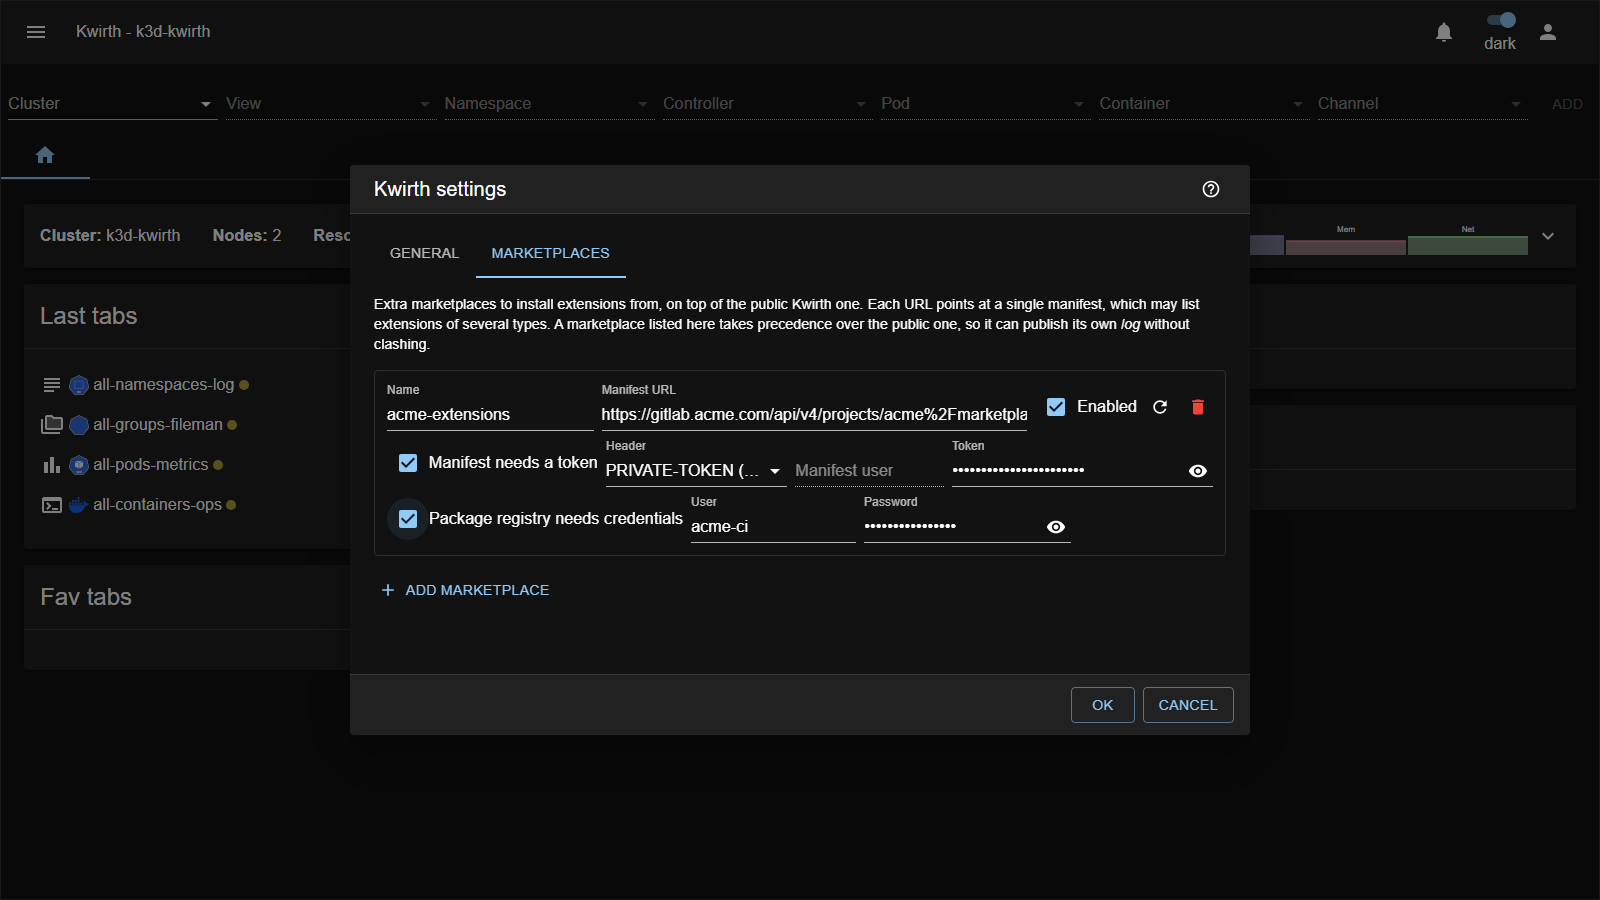
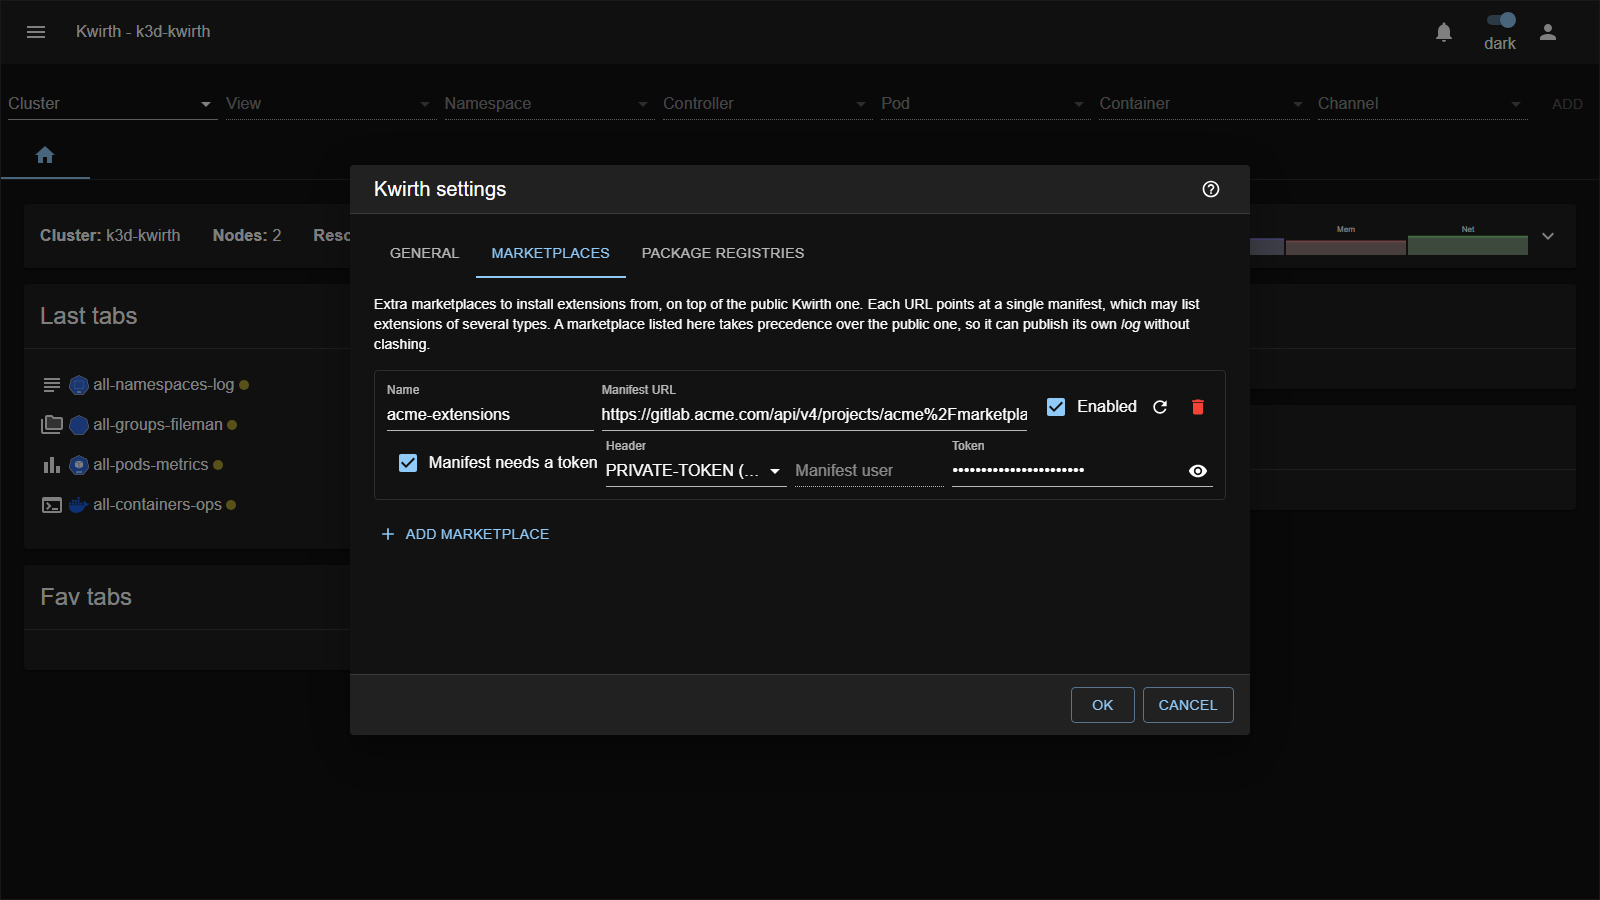
docs(admin): capturas y guia de los registros de paquetes
La captura del tab Marketplaces enseñaba el bloque de credenciales de paquete, que ya
no vive ahi, y la pestaña nueva no tenia ninguna. Se regeneran las dos y se referencia
la nueva en la guia.

La captura redacta AMBAS pestañas antes de fotografiar ninguna: el dialogo mantiene en
el DOM los campos de la pestaña oculta, asi que el Nexus real seguia ahi mientras se
fotografiaba la otra. La comprobacion de fuga mira todos los inputs y lo cazo — por eso
esta, y por eso ahora tambien busca el nombre del repo privado, no solo el host.

Y la config podia pedir capturas: el comentario decia que se lanzaban nombrando el
fichero, pero testIgnore se aplica igual en la linea de comandos, asi que no habia
NINGUNA forma de correrlas sin editar la config. Ahora CAPTURES=1 las habilita.

diff --git a/front/e2e/tests/capture-marketplaces.spec.ts b/front/e2e/tests/capture-marketplaces.spec.ts
@@ -25,7 +25,11 @@ const SAMPLE = {
     manifestUser: '',
     token: 'glpat-ExampleTokenValue',
     user: 'acme-ci',
-    password: 'example-password'
+    password: 'example-password',
+    // El registro de paquetes es OTRO servidor que el manifest: por eso la captura enseña otro host.
+    registryLabel: 'acme-nexus',
+    registryUrl: 'https://nexus.acme.com/repository/acme-private',
+    registryToken: 'example-registry-token'
 }
 
 /** Escribe en un input de React de forma que el componente registre el cambio. */
@@ -59,18 +63,34 @@ test('capture marketplaces (dark, redactado)', async ({ page }) => {
     const rows = await dlg(page).getByLabel('Manifest URL', { exact: true }).count()
     test.skip(rows === 0, 'no hay ningún marketplace registrado que capturar')
 
-    // Para que la imagen enseñe el caso completo — manifest con token Y registro con credenciales —
-    // se marcan las dos casillas. Es una ilustración, no la configuración real: nada de esto se guarda.
-    const registryCreds = dlg(page).getByLabel('Package registry needs credentials', { exact: true }).first()
-    if (!await registryCreds.isChecked()) await registryCreds.check()
+    // Para que la imagen enseñe el caso completo, se marca el token del manifest. Es una ilustración, no
+    // la configuración real: nada de esto se guarda.
     const manifestToken = dlg(page).getByLabel('Manifest needs a token', { exact: true }).first()
     if (!await manifestToken.isChecked()) await manifestToken.check()
     await page.waitForTimeout(300)
 
-    // redactar TODO lo identificable antes de que la imagen exista
-    await redact(page, 'Name', SAMPLE.label)
+    // Se preparan y redactan las DOS pestañas antes de capturar ninguna. El diálogo mantiene en el DOM
+    // los campos de la pestaña oculta, asi que el registro real seguiria ahi mientras se fotografia la
+    // otra: la comprobación de fuga mira todos los inputs, y con razon.
+    await page.getByRole('tab', { name: 'Package registries' }).click()
+    await page.waitForTimeout(600)
+    if (await dlg(page).getByLabel('Base URL', { exact: true }).count() === 0) {
+        await dlg(page).getByRole('button', { name: 'Add registry' }).click()
+        await page.waitForTimeout(300)
+    }
+    const needsCreds = dlg(page).getByLabel('Needs credentials', { exact: true }).first()
+    if (!await needsCreds.isChecked()) await needsCreds.check()
+    await page.waitForTimeout(300)
+    await redact(page, 'Base URL', SAMPLE.registryUrl)
+
+    await page.getByRole('tab', { name: 'Marketplaces' }).click()
+    await page.waitForTimeout(400)
+
+    // redactar TODO lo identificable antes de que exista ninguna imagen. 'Name', 'User', 'Password' y
+    // 'Token' se repiten en las dos pestañas, y redact() escribe en todas sus apariciones.
     await redact(page, 'Manifest URL', SAMPLE.url)
     await redact(page, 'Manifest user', SAMPLE.manifestUser)
+    await redact(page, 'Name', SAMPLE.label)
     await redact(page, 'Token', SAMPLE.token)
     await redact(page, 'User', SAMPLE.user)
     await redact(page, 'Password', SAMPLE.password)
@@ -80,9 +100,17 @@ test('capture marketplaces (dark, redactado)', async ({ page }) => {
     const leaked = await dlg(page).evaluate(el =>
         Array.from(el.querySelectorAll('input')).map(i => (i as HTMLInputElement).value).join(' | '))
     expect(leaked, 'ha quedado una URL real en la captura').not.toContain('plexus')
+    expect(leaked, 'ha quedado el nombre del repo privado en la captura').not.toContain('IriaOperae')
     expect(leaked, 'ha quedado un token real en la captura').not.toMatch(/glpat-(?!Example)/)
 
     await page.screenshot({ path: `${MEDIA}/admin-marketplaces.png` })
+
+    // y la pestaña de registros de paquetes, que es donde vive ahora la credencial de DESCARGA
+    await page.getByRole('tab', { name: 'Package registries' }).click()
+    await page.waitForTimeout(600)
+    await redact(page, 'Name', SAMPLE.registryLabel)
+    await page.waitForTimeout(300)
+    await page.screenshot({ path: `${MEDIA}/admin-package-registries.png` })
 
     // Cancel: lo redactado NO se guarda
     await dialog.getByRole('button', { name: 'Cancel' }).click()

diff --git a/front/e2e/playwright.config.ts b/front/e2e/playwright.config.ts
@@ -18,9 +18,14 @@ export default defineConfig({
     //   playwright test tests/private/iter-editing.spec.ts
     // Los 'capture-*' no verifican nada: SOBRESCRIBEN las imagenes de la guia en docs/_media. Dejarlos en
     // la corrida por defecto ensucia el arbol con capturas que nadie ha mirado, cada vez que se lanzan los
-    // tests. Se piden a mano cuando toca actualizar la guia:
-    //   playwright test tests/capture-managers.spec.ts
-    testIgnore: ['**/private/**', '**/capture-*.spec.ts'],
+    // tests. Se piden a mano poniendo CAPTURES:
+    //   CAPTURES=1 playwright test tests/capture-managers.spec.ts
+    //
+    // Hace falta la variable: 'testIgnore' se aplica tambien cuando se nombra el fichero en la linea de
+    // comandos, asi que sin esto no habia NINGUNA forma de lanzarlas sin editar esta config.
+    testIgnore: process.env.CAPTURES
+        ? ['**/private/**']
+        : ['**/private/**', '**/capture-*.spec.ts'],
     timeout: 180_000,
     retries: 1,
     fullyParallel: false,

diff --git a/docs/0.5.287/guide/admin/02-initial-config.md b/docs/0.5.287/guide/admin/02-initial-config.md
@@ -170,6 +170,8 @@ A marketplace tells kwirth **what exists**; it does not host the packages. Each 
 
 So when a package lives behind a private registry, its credentials go in the **Package registries** tab, not on the marketplace row. Kwirth picks them by **matching the tarball URL** against the registries you declare here.
 
+![Package registries tab](../../_media/guide/admin-package-registries.png)
+
 Each row is one registry:
 
 | Field | What it means |
